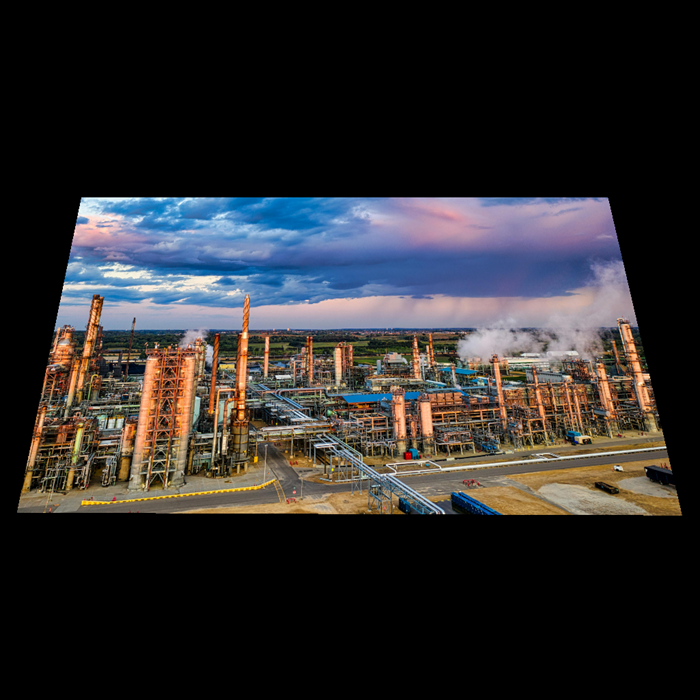
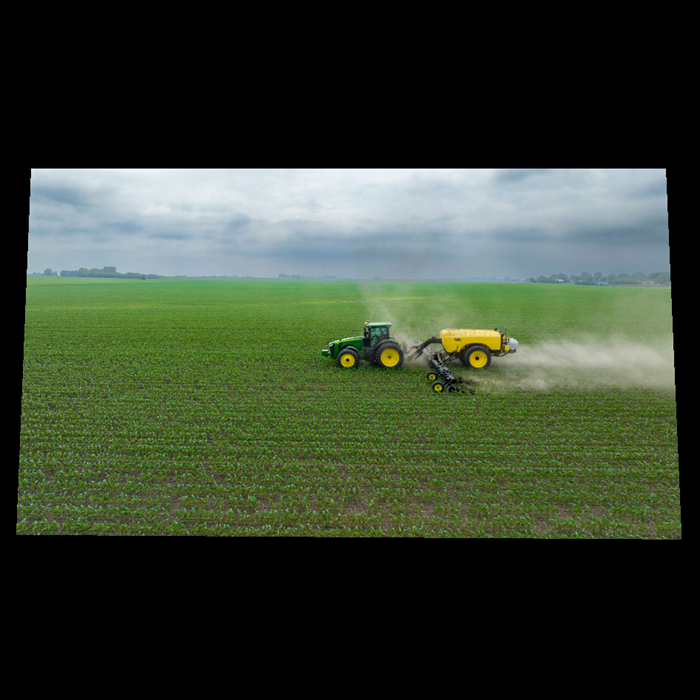
Fix some OSC ids

diff --git a/web-speaker-controls/index.html b/web-speaker-controls/index.html
@@ -299,10 +299,10 @@
 					</div>
 
 					<div class="flexrow flexwrap flexcenter">
-						<img class="item-preview" data-confim-id="113" src="./img/electrolysis-electrodes.png" alt="Electrodes" />
-						<img class="item-preview" data-confim-id="114" src="./img/electrolysis-wire.jpg" alt="Wires" />
-						<img class="item-preview" data-confim-id="115" src="./img/electrolysis-bubbles-hydrogen.png" alt="Hydrogen bubbles" />
-						<img class="item-preview" data-confim-id="116" src="./img/electrolysis-bubbles-oxygen.png" alt="Oxygen bubbles" />
+						<img class="item-preview" data-confim-id="114" src="./img/electrolysis-electrodes.png" alt="Electrodes" />
+						<img class="item-preview" data-confim-id="115" src="./img/electrolysis-wire.jpg" alt="Wires" />
+						<img class="item-preview" data-confim-id="116" src="./img/electrolysis-bubbles-hydrogen.png" alt="Hydrogen bubbles" />
+						<img class="item-preview" data-confim-id="117" src="./img/electrolysis-bubbles-oxygen.png" alt="Oxygen bubbles" />
 						<img class="item-preview" data-confim-id="200" src="./img/electrolysis-membrane.png" alt="Membrane" />
 						<img class="item-preview" data-confim-id="201" src="./img/electrolysis-bubbles-angle.png" alt="Bubbles angle" />
 					</div>
